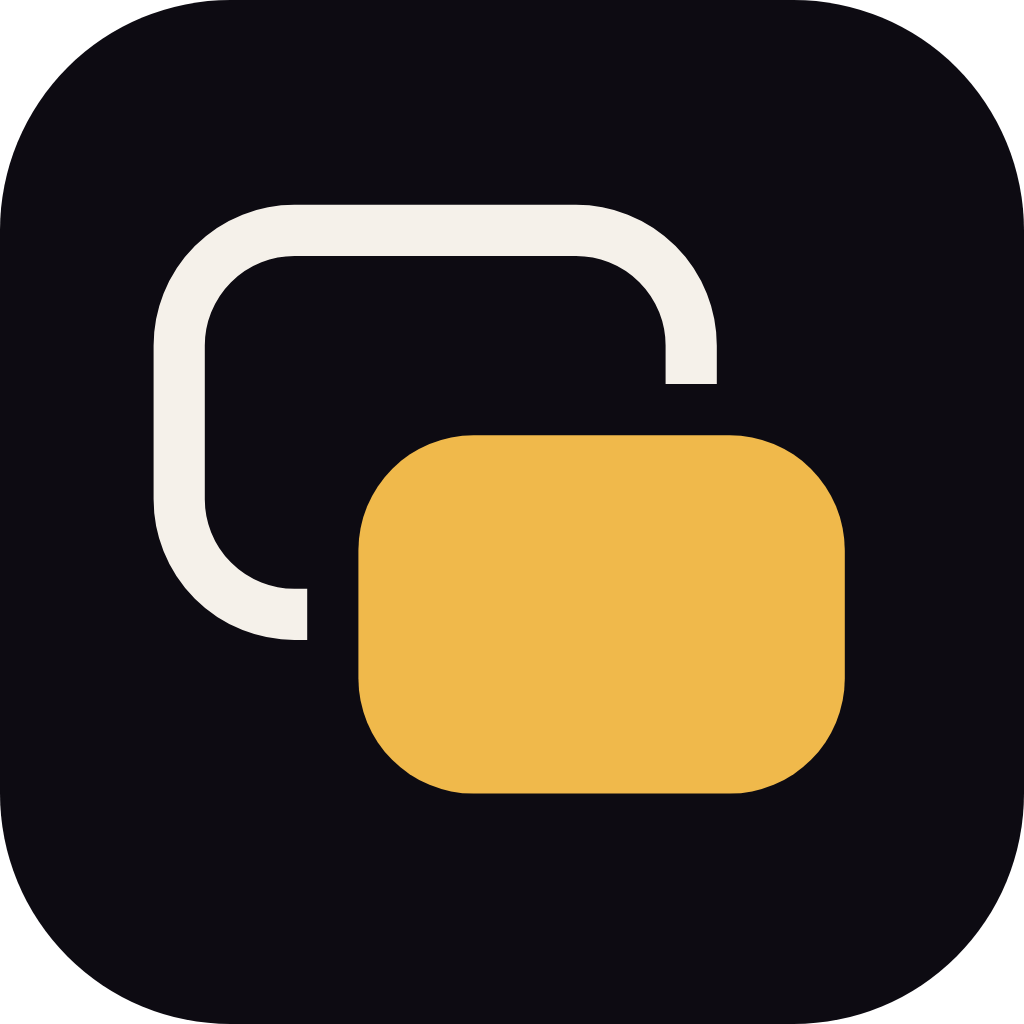
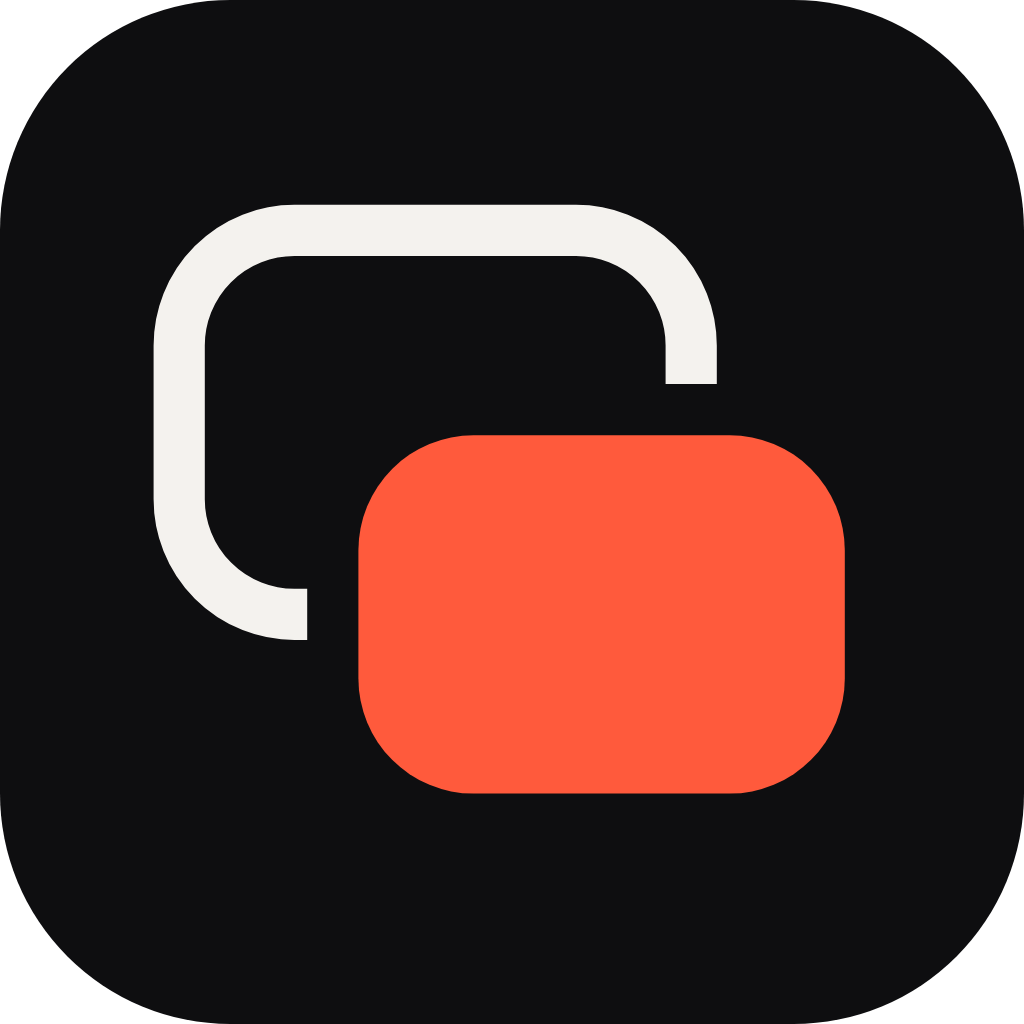
Ink & Paper palette: true neutrals, one flame accent, 80/15/5
- Dark: true-neutral canvas/surfaces (#0E0E10 / #161618 / #1E1E21), vermilion
  flame accent for the 5% (CTA, selection, progress); gold reserved for rank.
- Light: warm paper, ink buttons, deepened flame for text; all text pairs >= 4.5:1
  (WCAG table recorded in DESIGN.md).
- Ambience reduced to two faint washes; card top-light softened; loader/manifest
  recolored; home/settings copy updated.

Changed region(s): [[0.3438, 0.4062, 0.8438, 0.7812]]

diff --git a/lib/core/app_colors.dart b/lib/core/app_colors.dart
@@ -8,41 +8,45 @@ import 'package:flutter/material.dart';
 /// seeding the dark/light extension values.
 abstract final class AppColors {
   // ──── Brand ────
-  /// The one accent: a luminous gold. CTAs (dark), active states, trophies.
-  static const Color gold = Color(0xFFF0B94B);
-  /// Gold darkened for text/icons on light surfaces (passes 4.5:1 on white).
-  static const Color goldDeep = Color(0xFFB47F1E);
-  static const Color goldLight = Color(0xFFF7CF7A);
-  /// Ink: a deep violet-black. Primary buttons in light mode, light-mode text.
-  static const Color ink = Color(0xFF171320);
-  /// Warm paper used for the light canvas and text on ink.
-  static const Color paper = Color(0xFFF7F4EE);
+  /// The one accent: a vermilion flame. Used for the 5 %: primary action,
+  /// the live/selected state, progress, "Chat" in the wordmark.
+  static const Color flame = Color(0xFFFF5A3C);
+  /// Flame darkened for text/icons on paper (5.4:1 on white).
+  static const Color flameDeep = Color(0xFFC93217);
+  /// Ink: the near-black of the system. Light-mode text and buttons.
+  static const Color ink = Color(0xFF141317);
+  /// Paper: the light canvas and text on ink.
+  static const Color paper = Color(0xFFF7F5F0);
+  /// Gold is reserved for rank and prestige, never for actions.
+  static const Color gold = Color(0xFFD9A441);
+  static const Color goldDeep = Color(0xFF8A6A1C);
+  static const Color goldLight = Color(0xFFE8BF66);
 
   // ──── Semantic hues (dark-theme strength) ────
-  static const Color sage = Color(0xFF5BD29B); // for / success / easy
-  static const Color ember = Color(0xFFFF8A6A); // against / error / hard
-  static const Color amber = Color(0xFFF5C76A); // warning / medium / points
-  static const Color sky = Color(0xFF7FB4FF); // info / learning
-  /// Ambience only (backdrop lights), never for UI chrome.
-  static const Color violet = Color(0xFF7C5CFF);
+  static const Color sage = Color(0xFF4ED39A); // for / success / easy
+  static const Color ember = Color(0xFFFF7B6B); // against / error / hard
+  static const Color amber = Color(0xFFE0B35C); // warning / medium
+  static const Color sky = Color(0xFF6FB1FF); // info / learning
+  /// Ambience only (backdrop light), never for UI chrome.
+  static const Color violet = Color(0xFF6FB1FF);
 
-  // ──── Dark neutrals ("Arena Night": violet-black with real steps) ────
-  static const Color canvasDark = Color(0xFF0D0B12);
-  static const Color surfaceDark = Color(0xFF17141D);
-  static const Color surfaceRaisedDark = Color(0xFF211D2A);
-  static const Color insetDark = Color(0xFF07060A);
+  // ──── Dark neutrals ("Ink": true neutral, slight cool bias) ────
+  static const Color canvasDark = Color(0xFF0E0E10);
+  static const Color surfaceDark = Color(0xFF161618);
+  static const Color surfaceRaisedDark = Color(0xFF1E1E21);
+  static const Color insetDark = Color(0xFF09090A);
 
-  // ──── Light neutrals ("Arena Day") ────
-  static const Color canvasLight = Color(0xFFF7F4EE);
+  // ──── Light neutrals ("Paper") ────
+  static const Color canvasLight = Color(0xFFF7F5F0);
   static const Color surfaceLight = Color(0xFFFFFFFF);
-  static const Color insetLight = Color(0xFFECE7DE);
+  static const Color insetLight = Color(0xFFECE9E2);
 
   // ──── Rank colors (same in both themes) ────
-  static const Color rankNewcomer = Color(0xFF9A958F); // stone
-  static const Color rankChallenger = Color(0xFFC98A4B); // bronze
-  static const Color rankDebater = Color(0xFFB9C2CC); // silver
-  static const Color rankOrator = Color(0xFFF0B94B); // gold
-  static const Color rankGrandmaster = Color(0xFFD7ECFA); // ice
+  static const Color rankNewcomer = Color(0xFF9A9794); // stone
+  static const Color rankChallenger = Color(0xFFC08552); // bronze
+  static const Color rankDebater = Color(0xFFB7BEC7); // silver
+  static const Color rankOrator = Color(0xFFD9A441); // gold
+  static const Color rankGrandmaster = Color(0xFFDCE9F5); // platinum
 
   // ──── Legacy aliases ────
   // Kept so existing call sites compile. New code must use `context.colors.*`.
@@ -50,8 +54,8 @@ abstract final class AppColors {
   static const Color brassDeep = goldDeep;
   static const Color brassLight = goldLight;
   static const Color terracotta = ember;
-  static const Color primary = gold;
-  static const Color primaryLight = goldLight;
+  static const Color primary = flame;
+  static const Color primaryLight = ember;
   static const Color secondary = sky;
   static const Color success = sage;
   static const Color successAlt = sage;

diff --git a/lib/core/app_colors_ext.dart b/lib/core/app_colors_ext.dart
@@ -97,27 +97,27 @@ class AppColorsExt extends ThemeExtension<AppColorsExt> {
     surface: AppColors.surfaceDark,
     surfaceRaised: AppColors.surfaceRaisedDark,
     inset: AppColors.insetDark,
-    textPrimary: Color(0xFFF5F1EA),
-    textSecondary: Color(0xFFB8B1AA),
-    textHint: Color(0xFF857E88),
-    border: Color(0xFF2C2736),
-    borderStrong: Color(0xFF3E3749),
+    textPrimary: Color(0xFFF4F2EE),
+    textSecondary: Color(0xFFADAAA6),
+    textHint: Color(0xFF88857F),
+    border: Color(0xFF28282C),
+    borderStrong: Color(0xFF38383E),
     shadow: Color(0x80000000),
-    accent: AppColors.gold,
-    onAccent: Color(0xFF1C1406),
-    accentSoft: Color(0x29F0B94B),
-    ctaBg: AppColors.gold,
-    ctaFg: Color(0xFF1C1406),
-    positiveBg: Color(0xFF123A2E),
+    accent: AppColors.flame,
+    onAccent: Color(0xFF1A0A06),
+    accentSoft: Color(0x24FF5A3C),
+    ctaBg: AppColors.flame,
+    ctaFg: Color(0xFF1A0A06),
+    positiveBg: Color(0xFF10342A),
     positiveText: AppColors.sage,
-    negativeBg: Color(0xFF432119),
+    negativeBg: Color(0xFF3D1D1D),
     negativeText: AppColors.ember,
-    warningBg: Color(0xFF3F2E10),
+    warningBg: Color(0xFF3A2B10),
     warningText: AppColors.amber,
-    infoBg: Color(0xFF172A47),
+    infoBg: Color(0xFF132A45),
     infoText: AppColors.sky,
-    rankBg: Color(0xFF352A12),
-    rankText: Color(0xFFF5CE7A),
+    rankBg: Color(0xFF3A2B10),
+    rankText: AppColors.gold,
   );
 
   static const AppColorsExt light = AppColorsExt(
@@ -126,26 +126,26 @@ class AppColorsExt extends ThemeExtension<AppColorsExt> {
     surfaceRaised: AppColors.surfaceLight,
     inset: AppColors.insetLight,
     textPrimary: AppColors.ink,
-    textSecondary: Color(0xFF5B5566),
-    textHint: Color(0xFF7A7484),
-    border: Color(0xFFE3DDD2),
-    borderStrong: Color(0xFFCFC7BA),
-    shadow: Color(0x1A171320),
-    accent: AppColors.goldDeep,
+    textSecondary: Color(0xFF5A5860),
+    textHint: Color(0xFF6B6874),
+    border: Color(0xFFE3E0D8),
+    borderStrong: Color(0xFFCFCBC1),
+    shadow: Color(0x14141317),
+    accent: AppColors.flameDeep,
     onAccent: Colors.white,
-    accentSoft: Color(0x24B47F1E),
+    accentSoft: Color(0x1FC93217),
     ctaBg: AppColors.ink,
     ctaFg: AppColors.paper,
-    positiveBg: Color(0xFFDDF3E8),
-    positiveText: Color(0xFF1F7A55),
-    negativeBg: Color(0xFFFBE3DD),
-    negativeText: Color(0xFFB8442B),
-    warningBg: Color(0xFFFBEFD5),
-    warningText: Color(0xFF946011),
-    infoBg: Color(0xFFE1EAF9),
-    infoText: Color(0xFF2F62B5),
-    rankBg: Color(0xFFF7EAC9),
-    rankText: Color(0xFF7A5A10),
+    positiveBg: Color(0xFFDDF1E6),
+    positiveText: Color(0xFF1E7B55),
+    negativeBg: Color(0xFFFBE2DB),
+    negativeText: Color(0xFFC4381E),
+    warningBg: Color(0xFFF6EBCF),
+    warningText: Color(0xFF8A6A1C),
+    infoBg: Color(0xFFE1E9F8),
+    infoText: Color(0xFF2F5FB3),
+    rankBg: Color(0xFFF6EBCF),
+    rankText: Color(0xFF8A6A1C),
   );
 
   @override

diff --git a/web/index.html b/web/index.html
@@ -14,7 +14,7 @@
   <meta content="IE=Edge" http-equiv="X-UA-Compatible">
   <meta name="viewport" content="width=device-width, initial-scale=1, viewport-fit=cover">
   <meta name="description" content="ClashChat – sharpen your arguments in live debates against an AI opponent. Casual, ranked and coached modes.">
-  <meta name="theme-color" content="#0D0B12">
+  <meta name="theme-color" content="#0E0E10">
   <meta name="color-scheme" content="dark light">
 
   <!-- iOS meta tags & icons -->
@@ -32,11 +32,11 @@
 
   <style>
     /* Branded loading state shown until Flutter paints its first frame. */
-    html, body { height: 100%; margin: 0; background: #0D0B12; }
+    html, body { height: 100%; margin: 0; background: #0E0E10; }
     #cc-loader {
       position: fixed; inset: 0; display: flex; flex-direction: column;
       align-items: center; justify-content: center; gap: 18px;
-      background: #0D0B12; color: #F5F1EA;
+      background: #0E0E10; color: #F4F2EE;
       font-family: "Plus Jakarta Sans", "Segoe UI", system-ui, -apple-system, sans-serif;
       transition: opacity 320ms ease-out; z-index: 9999;
     }
@@ -45,13 +45,13 @@
     #cc-loader .mark .b1, #cc-loader .mark .b2 {
       position: absolute; border-radius: 10px;
     }
-    #cc-loader .mark .b1 { left: 6px; top: 10px; width: 30px; height: 22px; border: 3px solid #F5F1EA; }
-    #cc-loader .mark .b2 { left: 22px; top: 24px; width: 28px; height: 20px; background: #F0B94B;
-      box-shadow: 0 0 0 3px #0D0B12; }
+    #cc-loader .mark .b1 { left: 6px; top: 10px; width: 30px; height: 22px; border: 3px solid #F4F2EE; }
+    #cc-loader .mark .b2 { left: 22px; top: 24px; width: 28px; height: 20px; background: #FF5A3C;
+      box-shadow: 0 0 0 3px #0E0E10; }
     #cc-loader .word { font-size: 24px; font-weight: 600; letter-spacing: -0.4px; }
-    #cc-loader .word span { color: #F0B94B; }
-    #cc-loader .bar { width: 64px; height: 2px; background: #2C2736; overflow: hidden; border-radius: 2px; }
-    #cc-loader .bar i { display: block; height: 100%; width: 40%; background: #F0B94B;
+    #cc-loader .word span { color: #FF5A3C; }
+    #cc-loader .bar { width: 64px; height: 2px; background: #28282C; overflow: hidden; border-radius: 2px; }
+    #cc-loader .bar i { display: block; height: 100%; width: 40%; background: #FF5A3C;
       animation: cc-slide 1.2s ease-in-out infinite; }
     @keyframes cc-slide { 0% { transform: translateX(-100%);} 100% { transform: translateX(260%);} }
     @media (prefers-reduced-motion: reduce) { #cc-loader .bar i { animation: none; width: 100%; } }

diff --git a/lib/ui/app_backdrop.dart b/lib/ui/app_backdrop.dart
@@ -3,7 +3,6 @@ import 'dart:ui' as ui;
 
 import 'package:flutter/material.dart';
 
-import '../core/app_colors.dart';
 import '../core/app_colors_ext.dart';
 
 /// Atmospheric page background: canvas color, two or three slow "stage
@@ -78,10 +77,8 @@ class _AppBackdropState extends State<AppBackdrop>
               painter: _StageLightPainter(
                 t: _ctrl.value,
                 lights: [
-                  _Light(c.accent, 0.22 * k, const Offset(0.12, -0.08), 0.62),
-                  _Light(AppColors.violet, 0.16 * k, const Offset(1.02, 0.30), 0.55),
-                  _Light(AppColors.ember, 0.10 * k, const Offset(0.30, 1.08), 0.50),
-                  _Light(c.infoText, 0.07 * k, const Offset(0.85, 0.95), 0.40),
+                  _Light(c.accent, 0.085 * k, const Offset(0.10, -0.10), 0.60),
+                  _Light(c.infoText, 0.045 * k, const Offset(1.02, 0.40), 0.50),
                 ],
               ),
             ),
@@ -92,7 +89,7 @@ class _AppBackdropState extends State<AppBackdrop>
               child: CustomPaint(
                 painter: _GrainPainter(
                   color: dark ? Colors.white : Colors.black,
-                  alpha: dark ? 0.05 : 0.035,
+                  alpha: dark ? 0.04 : 0.03,
                 ),
               ),
             ),

diff --git a/lib/screens/settings_screen.dart b/lib/screens/settings_screen.dart
@@ -45,7 +45,7 @@ class SettingsScreen extends StatelessWidget {
                 Text('Theme', style: context.text.titleSmall),
                 AppSpacing.vXs,
                 Text(
-                  'System follows your device. Arena Night is the default.',
+                  'System follows your device. Ink is the default.',
                   style: context.text.bodySmall,
                 ),
                 AppSpacing.vLg,

diff --git a/lib/ui/app_card.dart b/lib/ui/app_card.dart
@@ -75,7 +75,7 @@ class AppCard extends StatelessWidget {
               ? LinearGradient(
                   begin: Alignment.topCenter,
                   end: Alignment.bottomCenter,
-                  colors: [Color.lerp(bg, Colors.white, 0.055)!, bg],
+                  colors: [Color.lerp(bg, Colors.white, 0.035)!, bg],
                   stops: const [0.0, 0.55],
                 )
               : null,

diff --git a/lib/screens/home_screen.dart b/lib/screens/home_screen.dart
@@ -539,7 +539,7 @@ class _UsageCard extends StatelessWidget {
         ),
       DebateMode.ranked => (
           title: 'Ranked',
-          subtitle: '10 minutes, difficulty matched to your rank',
+          subtitle: 'Quick 5 min or a full match, difficulty set by your rank',
         ),
       DebateMode.learning => (
           title: 'Learning',

diff --git a/DESIGN.md b/DESIGN.md
@@ -4,36 +4,62 @@ Single source of truth for how ClashChat looks and moves. Code lives in `lib/cor
 
 ## 1. Visual Theme & Atmosphere
 
-A debate arena after hours. Violet-black surfaces with real tonal steps, one luminous gold accent used like a trophy, lit by soft gold, violet and ember stage lights, and typography that does the talking. Density is "daily app balanced" (5/10): generous padding, never cramped, never empty. Variance is moderate (5/10): left-aligned headers, asymmetric hero on Home, strict single column on phones. Motion is fluid but short (5/10): things settle in under 260 ms, nothing loops except the timer under one minute and the typing indicator.
+A debate chamber: ink and paper, one flame. Surfaces are true neutrals, type does the talking, and a single vermilion accent marks the one thing you can act on. Proportions follow 80 / 15 / 5: canvas 80 %, surfaces + hairlines + muted text 15 %, accent 5 %, and typography that does the talking. Density is "daily app balanced" (5/10): generous padding, never cramped, never empty. Variance is moderate (5/10): left-aligned headers, asymmetric hero on Home, strict single column on phones. Motion is fluid but short (5/10): things settle in under 260 ms, nothing loops except the timer under one minute and the typing indicator.
 
-What it is not: a neon purple AI app. No glows, no gradient buttons, no emoji as icons, no spinning robots.
+What it is not: a neon AI app or a casino. No glows, no gradient buttons, no emoji as icons, no gold on buttons (gold means rank, never action).
 
 ## 2. Color Palette & Roles
 
 Two themes, one personality. Dark is the default.
 
-### Dark ("Arena Night")
-- **Canvas** `#0D0B12` — scaffold background. Violet-black, never pure black.
-- **Surface** `#17141D` — cards, sheets. **Surface Raised** `#211D2A` — nested panels, AI bubbles, inputs. **Inset** `#07060A` — recessed wells.
-- Cards carry a 5 % top-light so they read as lit objects, not flat rectangles.
-- **Ink** `#F5F1EA` primary text. **Ink Muted** `#B8B1AA`. **Ink Hint** `#857E88` (4.5:1 on canvas).
-- **Hairline** `#2C2736`, **Hairline Strong** `#3E3749` — visible, not ghostly.
-- **Gold** `#F0B94B` — the accent. Text on gold is `#1C1406`. **Gold Soft** gold @ 16 %.
-- **Sage** `#5BD29B` on `#123A2E` — For, strengths, success, Easy.
-- **Ember** `#FF8A6A` on `#432119` — Against, weaknesses, errors, Hard.
-- **Amber** `#F5C76A` on `#3F2E10` — warnings, Medium, ranked points.
-- **Sky** `#7FB4FF` on `#172A47` — info, Learning.
-- **Violet** `#7C5CFF` — ambience only (backdrop light), never chrome.
+### Dark ("Ink")
+- **Canvas** `#0E0E10` (80 % of every screen). **Surface** `#161618`, **Raised** `#1E1E21`, **Inset** `#09090A` — the 15 %, with hairlines `#28282C` / `#38383E`.
+- **Ink** `#F4F2EE` primary text, **Muted** `#ADAAA6`, **Hint** `#88857F`.
+- **Flame** `#FF5A3C` — the 5 %. Primary button (text `#1A0A06`), selected nav, progress, the live timer, "Chat" in the wordmark. Soft tint = flame @ 14 %.
+- **Sage** `#4ED39A` on `#10342A` — For, strengths, success, Easy.
+- **Ember** `#FF7B6B` on `#3D1D1D` — Against, weaknesses, errors, Hard.
+- **Amber** `#E0B35C` on `#3A2B10` — warnings, Medium.
+- **Sky** `#6FB1FF` on `#132A45` — info, Learning.
+- **Gold** `#D9A441` on `#3A2B10` — rank and ranked points only.
 
-### Light ("Arena Day")
-- **Canvas** `#F7F4EE` (warm paper), **Surface** `#FFFFFF`, **Inset** `#ECE7DE`.
-- **Ink** `#171320`, **Ink Muted** `#5B5566`, **Ink Hint** `#7A7484`.
-- **Hairline** `#E3DDD2`, **Hairline Strong** `#CFC7BA`.
-- **Gold** darkens to `#B47F1E` for text and icons. Primary buttons are **Ink** with paper text.
-- Sage `#1F7A55` on `#DDF3E8`, Ember `#B8442B` on `#FBE3DD`, Amber `#946011` on `#FBEFD5`, Sky `#2F62B5` on `#E1EAF9`.
+### Light ("Paper")
+- **Canvas** `#F7F5F0` (warm paper), **Surface** `#FFFFFF`, **Inset** `#ECE9E2`, hairlines `#E3E0D8` / `#CFCBC1`.
+- **Ink** `#141317`, **Muted** `#5A5860`, **Hint** `#6B6874`.
+- **Flame** darkens to `#C93217`. Primary buttons are **Ink** with paper text; flame marks selection and progress.
+- Sage `#1E7B55` on `#DDF1E6`, Ember `#C4381E` on `#FBE2DB`, Amber `#8A6A1C` on `#F6EBCF`, Sky `#2F5FB3` on `#E1E9F8`, Gold `#8A6A1C` on `#F6EBCF`.
+
+### Contrast (WCAG 2.x, computed)
+| Theme | Pair | Colors | Ratio |
+|---|---|---|---|
+| Dark | text | `#F4F2EE` on `#0E0E10` | 17.2:1 |
+| Dark | mute | `#ADAAA6` on `#0E0E10` | 8.3:1 |
+| Dark | hint | `#88857F` on `#0E0E10` | 5.2:1 |
+| Dark | accent | `#FF5A3C` on `#0E0E10` | 6.2:1 |
+| Dark | pos | `#4ED39A` on `#0E0E10` | 10.2:1 |
+| Dark | neg | `#FF7B6B` on `#0E0E10` | 7.6:1 |
+| Dark | warn | `#E0B35C` on `#0E0E10` | 9.9:1 |
+| Dark | info | `#6FB1FF` on `#0E0E10` | 8.6:1 |
+| Dark | rank | `#D9A441` on `#0E0E10` | 8.6:1 |
+| Dark | text on surface | `#F4F2EE` on `#161618` | 16.2:1 |
+| Dark | hint on surface | `#88857F` on `#161618` | 4.9:1 |
+| Light | text | `#141317` on `#F7F5F0` | 17.0:1 |
+| Light | mute | `#5A5860` on `#F7F5F0` | 6.4:1 |
+| Light | hint | `#6B6874` on `#F7F5F0` | 5.0:1 |
+| Light | accent | `#C93217` on `#F7F5F0` | 4.9:1 |
+| Light | pos | `#1E7B55` on `#F7F5F0` | 4.8:1 |
+| Light | neg | `#C4381E` on `#F7F5F0` | 4.9:1 |
+| Light | warn | `#8A6A1C` on `#F7F5F0` | 4.6:1 |
+| Light | info | `#2F5FB3` on `#F7F5F0` | 5.7:1 |
+| Light | rank | `#8A6A1C` on `#F7F5F0` | 4.6:1 |
+| Light | text on surface | `#141317` on `#FFFFFF` | 18.5:1 |
+| Light | hint on surface | `#6B6874` on `#FFFFFF` | 5.4:1 |
+| Dark | CTA label on accent | `#1A0A06` on `#FF5A3C` | 6.2:1 |
+| Light | CTA label on ink | `#F7F5F0` on `#141317` | 17.0:1 |
+
+All text pairs clear 4.5:1; large display numbers and icons clear 3:1 with margin. Re-run the check whenever a token changes.
 
 ### Rank colors (both themes)
-Newcomer stone `#9A958F`, Challenger bronze `#C98A4B`, Debater silver `#B9C2CC`, Orator gold `#F0B94B`, Grandmaster ice `#D7ECFA`. Ranks are drawn with Lucide icons, never emoji.
+Newcomer stone `#9A9794`, Challenger bronze `#C08552`, Debater silver `#B7BEC7`, Orator gold `#D9A441`, Grandmaster platinum `#DCE9F5`. Ranks are drawn with Lucide icons, never emoji.
 
 ## 3. Typography Rules
 
@@ -82,7 +108,7 @@ Lucide icons via `lucide_icons_flutter`. The regular stroke is the default; the 
 
 The first pass set tokens and structure. This layer is what makes it feel made.
 
-- **Backdrop** (`AppBackdrop`): every page sits on the canvas plus four slow "stage lights" (gold 22 %, violet 16 %, ember 10 %, sky 7 %, drifting over ~22 s) and a fine film grain (4.5 % white in dark, 3.5 % black in light). Never a visible blob, never neon: at arm's length it reads as a lit room, not a gradient.
+- **Backdrop** (`AppBackdrop`): every page sits on the canvas plus two faint "stage lights" (flame 8.5 % top-left, sky 4.5 % right, drifting over ~22 s) and a fine film grain (4.5 % white in dark, 3.5 % black in light). Never a visible blob, never neon: at arm's length it reads as a lit room, not a gradient.
 - **Glass** (`GlassCard`, `GlassBar`): blur 16–18, fill 72 % (dark) / 80 % (light), hairline, 1 px top highlight. Used for the login card on desktop, floating headers over scrolling content, the scoring overlay and bottom sheets. Not for ordinary cards.
 - **Numbers move** (`AnimatedNumber`): points, scores and counts count up in the mono face on first appearance.
 - **Big moments** (`ParticleBurst`): a short fall of brass/sage/sky flecks for a score of 70+ or positive ranked points. Once, never looping.
